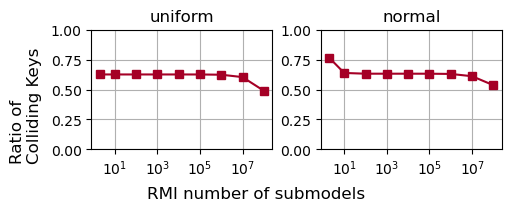
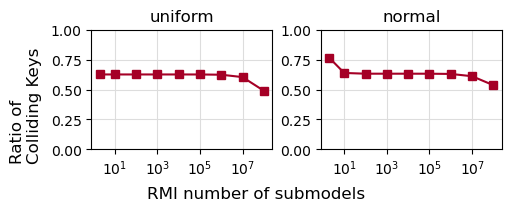
Update figures and README

diff --git a/scripts/print_figures.py b/scripts/print_figures.py
@@ -8,6 +8,9 @@ import re
 from math import log10
 
 plt.rcParams['figure.constrained_layout.use'] = True
+# ax.grid(which='major', color=, linewidth=0
+plt.rcParams['grid.color'] = '#DDDDDD'
+plt.rcParams['grid.linewidth'] = 0.8
 
 # =============================== SETUP =============================== #
 
@@ -107,7 +110,7 @@ def collisions(df):
     
     # Create a single figure with multiple subplots in a row
     num_subplots = len(datasets)
-    fig, axes = plt.subplots(1, num_subplots, figsize=(23, 2.5))  # Adjust figsize as needed
+    fig, axes = plt.subplots(1, num_subplots, figsize=(10, 2))  # Adjust figsize as needed
     
     # Create a single legend for all subplots
     legend_labels = []
@@ -137,7 +140,7 @@ def collisions(df):
         ax.grid(True)
     
     # Add a single legend to the entire figure with labels on the same line
-    lgd = fig.legend(handles=[line for line in fig.axes[0].lines], loc='upper center', labels=legend_labels, ncol=len(legend_labels)//2+len(legend_labels)%2, bbox_to_anchor=(0.5, 1.33))
+    lgd = fig.legend(handles=[line for line in fig.axes[0].lines], loc='upper center', labels=legend_labels, ncol=len(legend_labels)//2+len(legend_labels)%2, bbox_to_anchor=(0.5, 1.28))
 
     # Set a common label for x and y axes
     labx = fig.supxlabel('Hash Computation Throughput (Million operations/s)')
@@ -194,7 +197,7 @@ def gaps(df):
     df = df[df["label"].str.lower().str.contains("gaps")].copy(deep=True)
     if df.empty:
         return
-    fig = plt.figure(figsize=(5, 3.5))
+    fig = plt.figure(figsize=(4, 3))
     datasets = df['dataset_name'].unique()
     for _d_ in datasets:
         if _d_ == 'seq':
@@ -210,7 +213,7 @@ def gaps(df):
     plt.xlabel('Gap value')
     plt.ylabel('Count')
     plt.grid(True)
-    fig.legend(loc='center right') #, bbox_to_anchor=(0.5, 1.33))
+    fig.legend(loc='upper right', bbox_to_anchor=(0.995, 0.945))
     fig.savefig(f'{prefix}_gaps.png')
 
 

diff --git a/README.md b/README.md
@@ -38,3 +38,30 @@ bash setup_datasets.sh <input_dir>
 ```
 where `<input_dir>` refers to the directory that will store the required datasets.
 
+## 2 | Run the experiments
+### Compile and run
+To compile the code, simply run:
+```sh
+cd code
+bash build.sh
+```
+The executable file is called `cmake-build-release/src/benchmarks`, and it can be used as follows:
+```
+./benchmarks [ARGS]
+Arguments:
+  -i, --input INPUT_DIR     Directory storing the datasets
+  -o, --output OUTPUT_DIR   Directory that will store the output
+  -t, --threads THREADS     Number of threads to use (default: all)
+  -f, --filter FILTER       Type of benchmark to execute, *comma-separated*
+                            Options = collisions,gaps,all (default: all) 
+  -h, --help                Display this help message
+```
+Results are saved in the specified output directory.
+### Benchmark types
+Notice that the numbers in the parenthesis refer to the experiment number in the article.
+- _collisions_ : compute the throughput/collisions tradeoff for different hash functions on different datasets [7.2]
+- _gaps_ : compute the gap distribution of various datasets [7.1-datasets]
+<!-- TODO add more -->
+
+## 3 | Process the results
+
